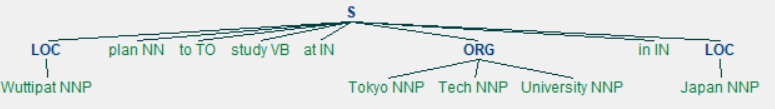
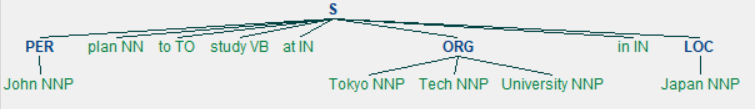
add readme

Changed region(s): [[0.0305, 0.0275, 1.0, 0.8807], [0.0, 0.7156, 0.1219, 0.8807]]

diff --git a/predict.py b/predict.py
@@ -75,7 +75,7 @@ class chucker():
         
 c = chucker()
 
-result = c.word2IOB("Wuttipat plan to study at Tokyo Tech University in Japan")
+result = c.word2IOB("John plan to study at Tokyo Tech University in Japan")
 # print(result)
 
 tagger = pycrfsuite.Tagger()
